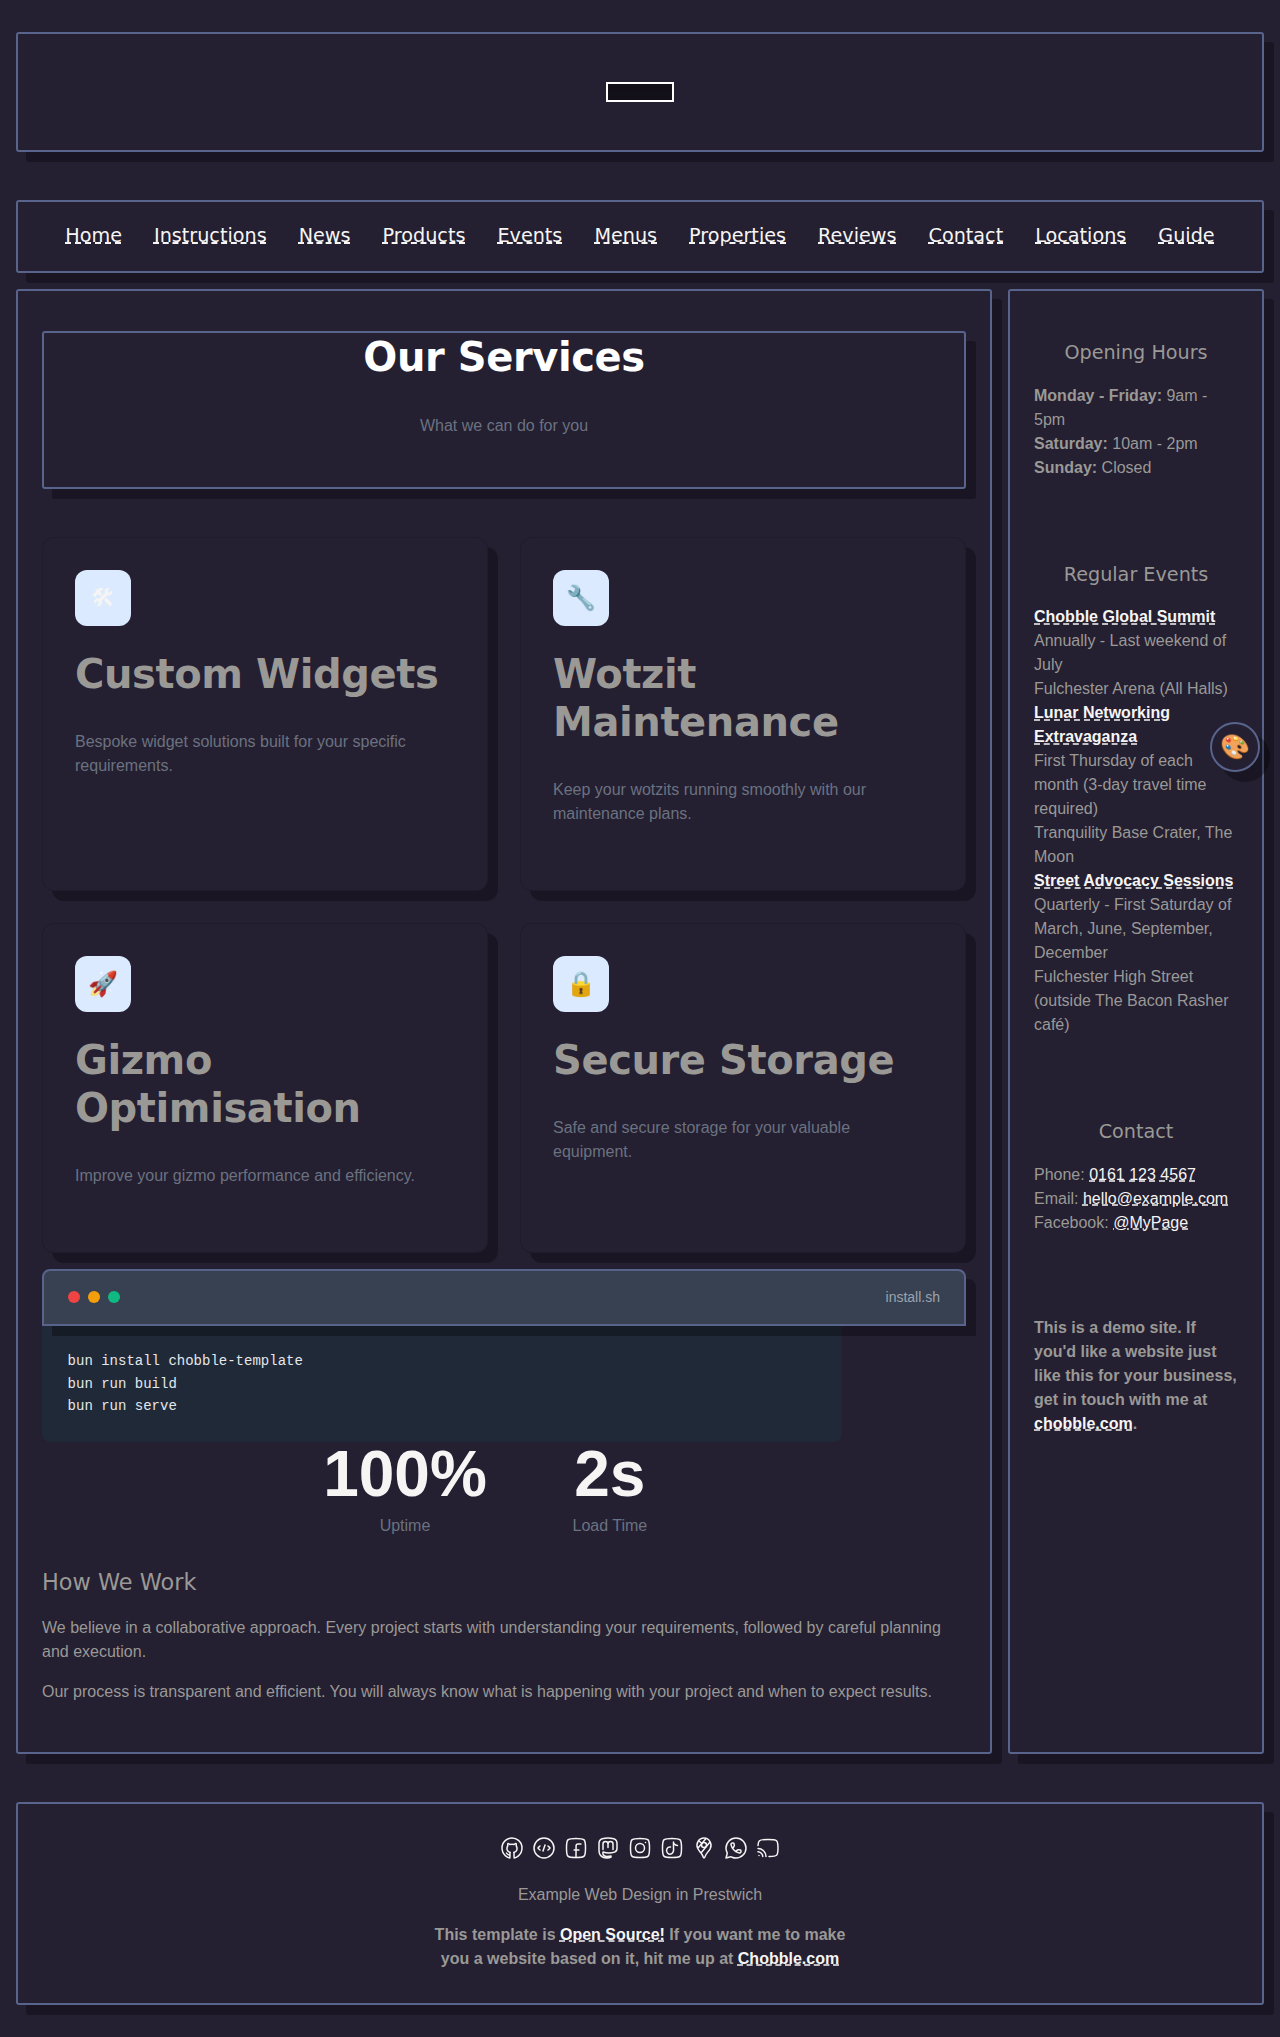
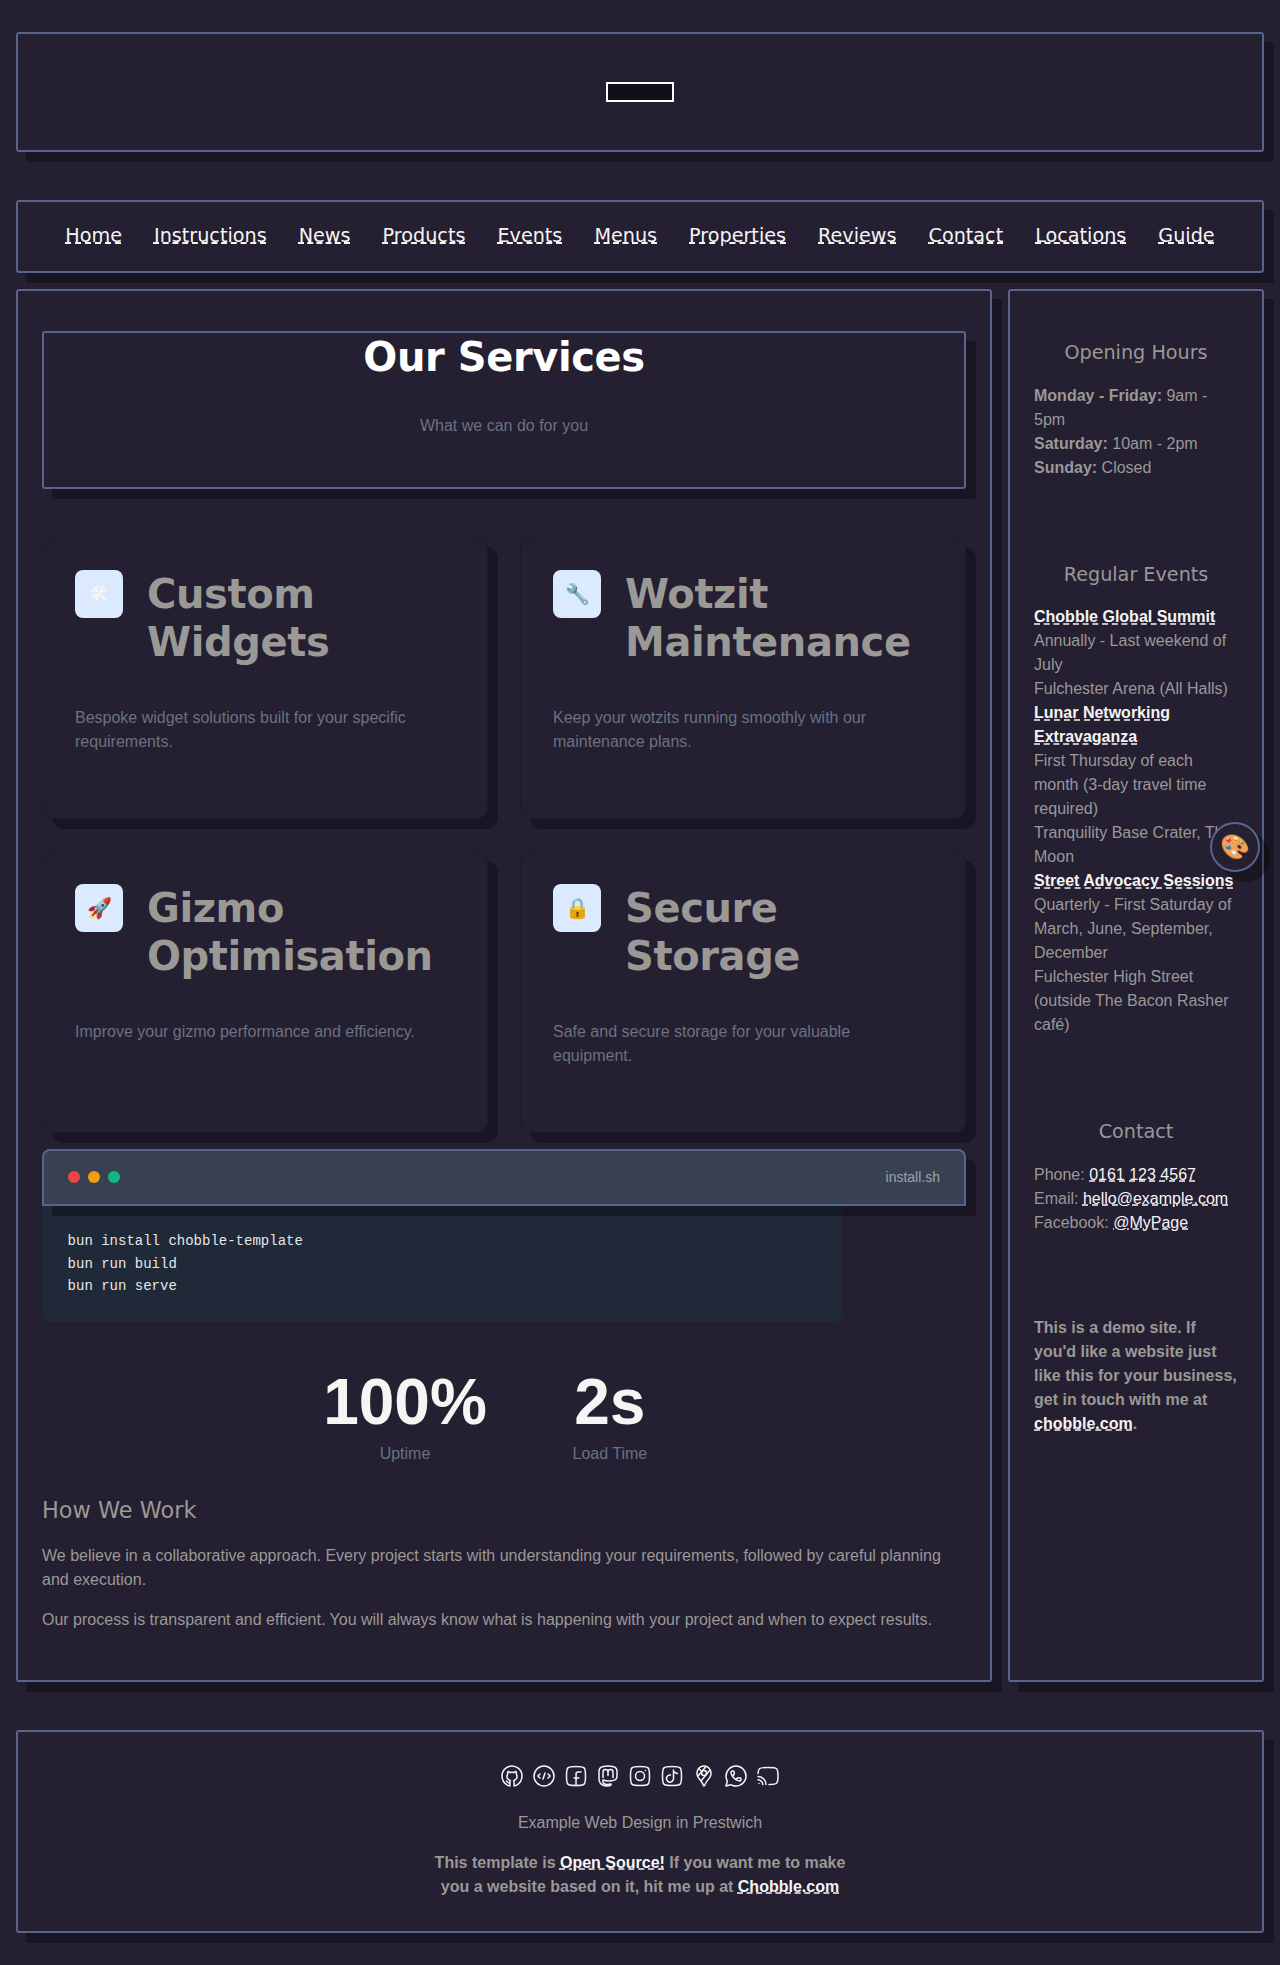
Add consistent block spacing using $space-xl variable
Added BLOCK SPACING section to _base.scss that applies margin-bottom
to direct children of .design-system (header, features, stats, code-block,
split, grid). Uses $space-xl (48px) for consistent vertical rhythm.

Last child elements don't get bottom margin to avoid unnecessary whitespace.

diff --git a/src/css/design-system/_base.scss b/src/css/design-system/_base.scss
@@ -199,4 +199,25 @@
       background: linear-gradient(135deg, var(--primary-light) 0%, #faf5ff 100%);
     }
   }
+
+  // ===========================================================================
+  // BLOCK SPACING
+  // ===========================================================================
+  // Consistent vertical rhythm between block-level components (features, stats,
+  // code-block, etc.) when used as direct children of .design-system
+
+  > header,
+  > .features,
+  > ul.features,
+  > .stats,
+  > dl.stats,
+  > .code-block,
+  > .split,
+  > .grid {
+    margin-bottom: $space-xl;
+
+    &:last-child {
+      margin-bottom: 0;
+    }
+  }
 }
